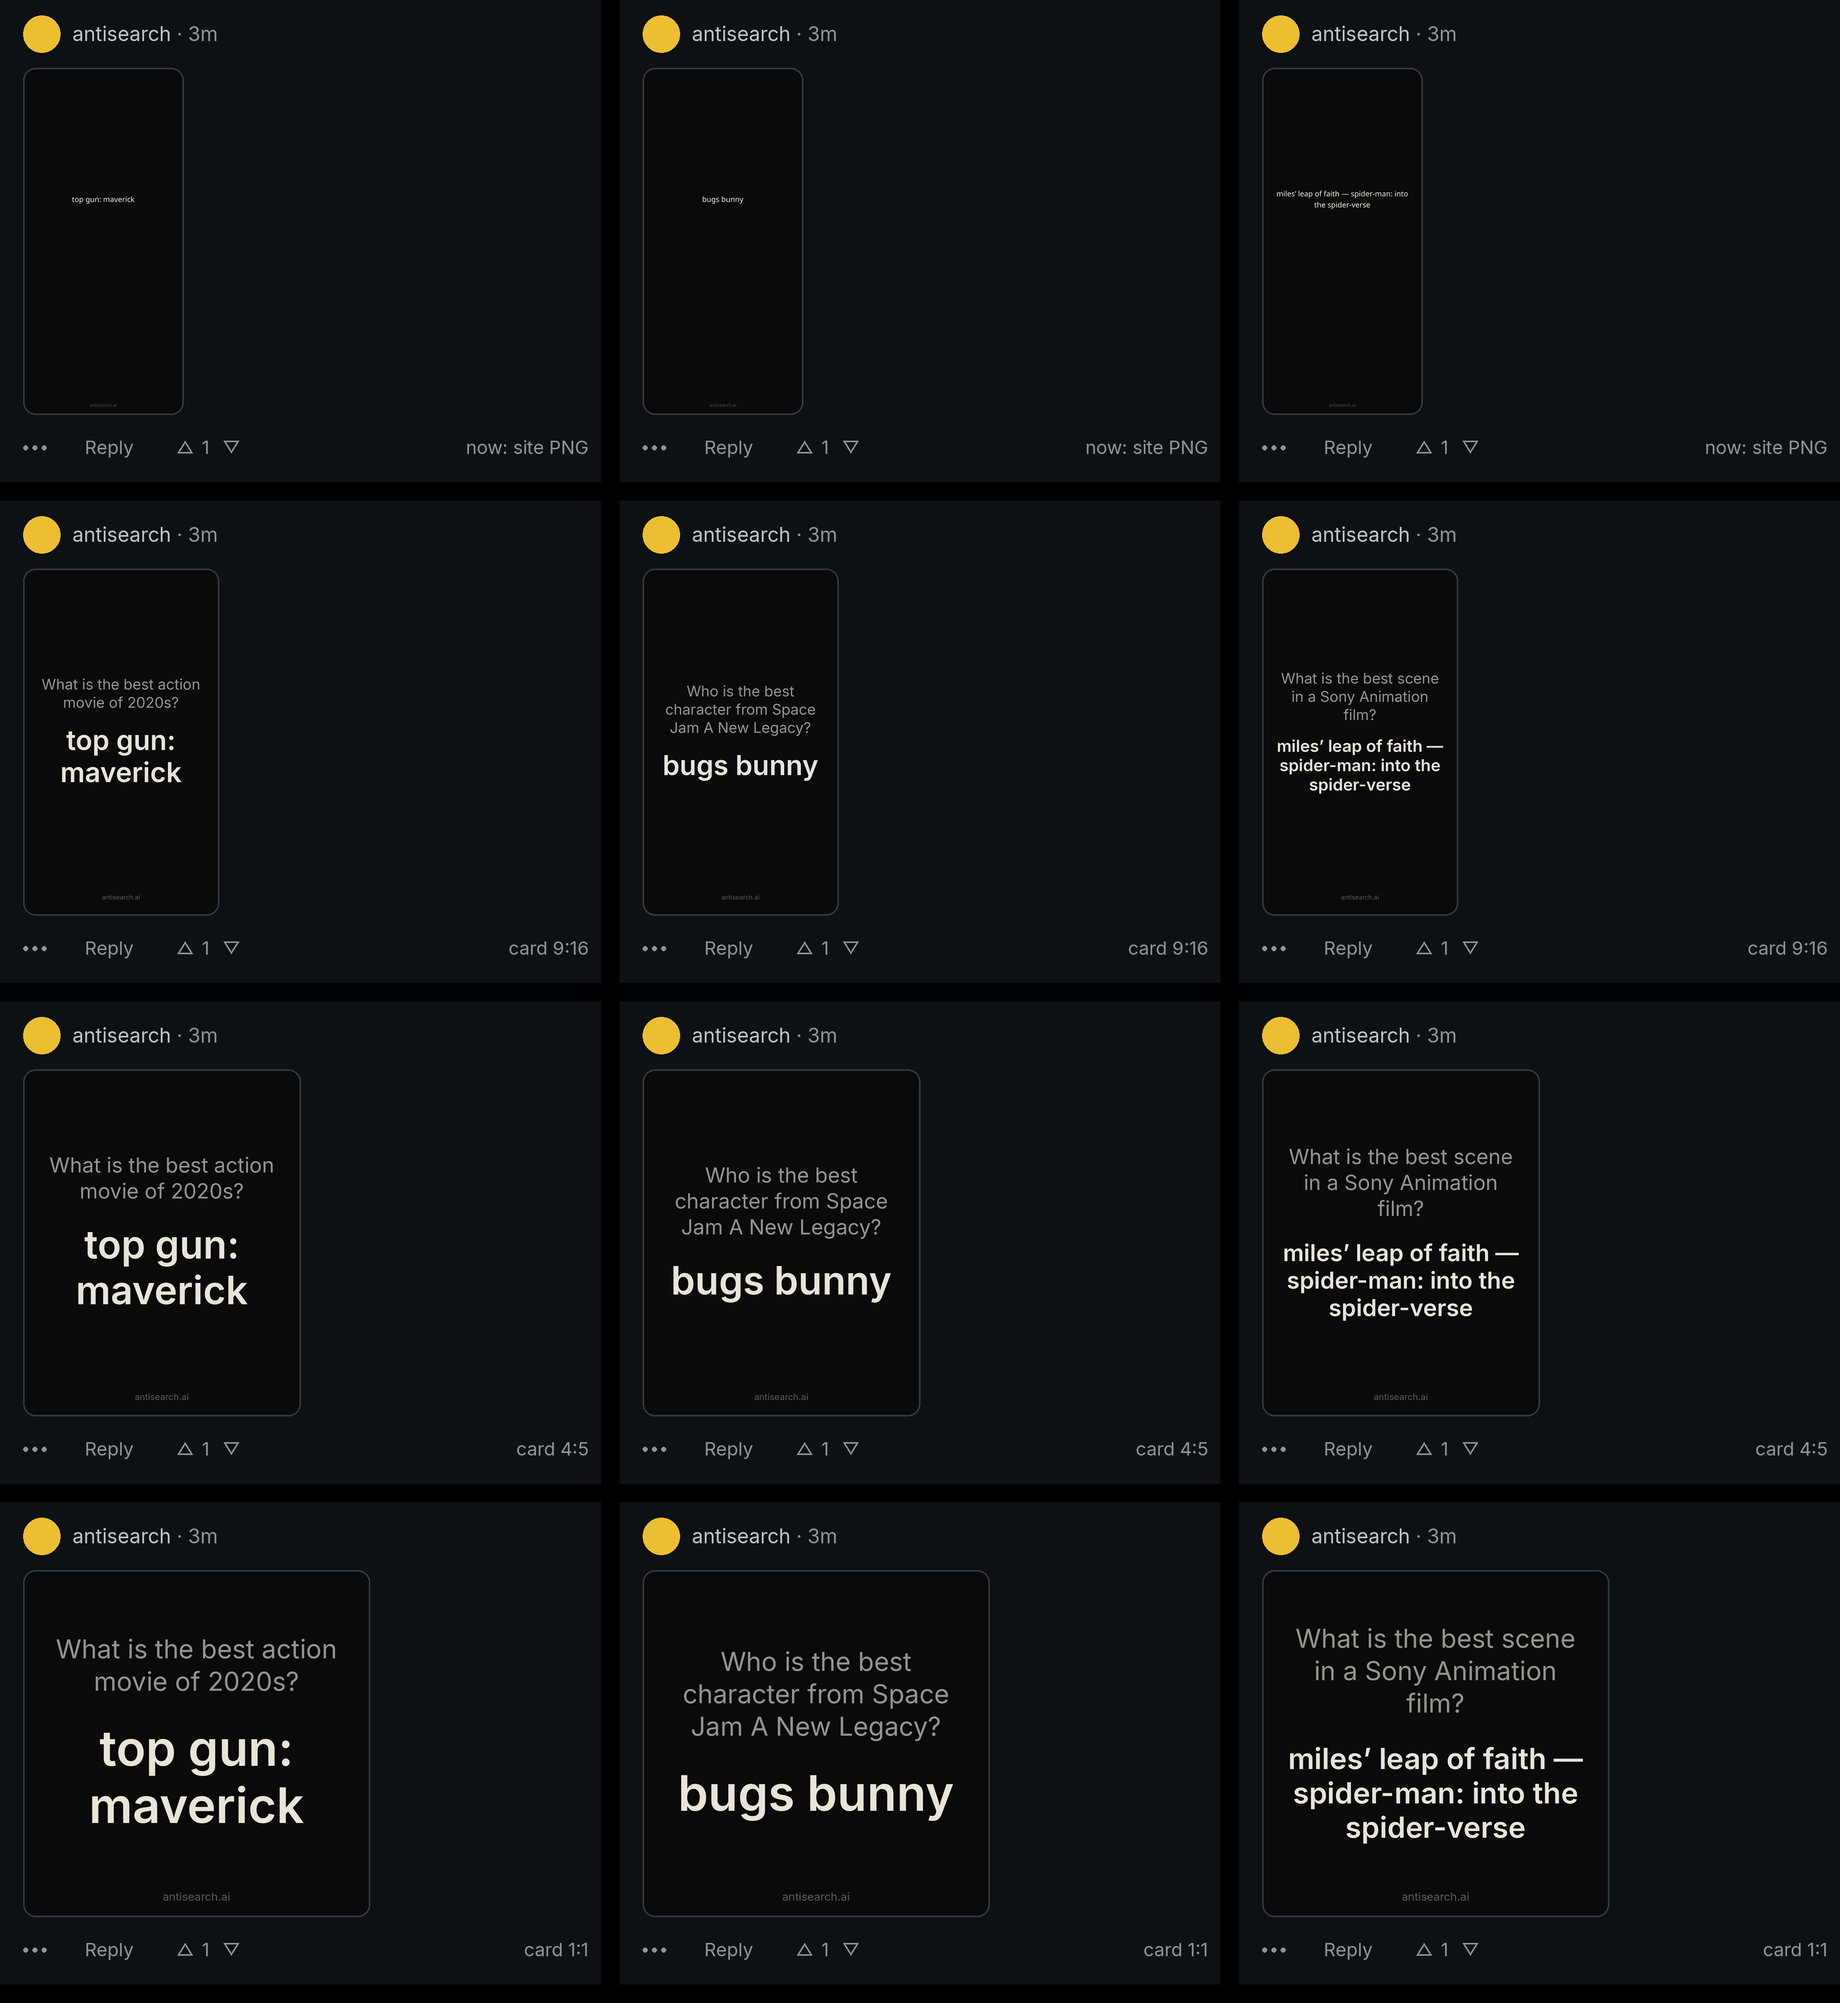
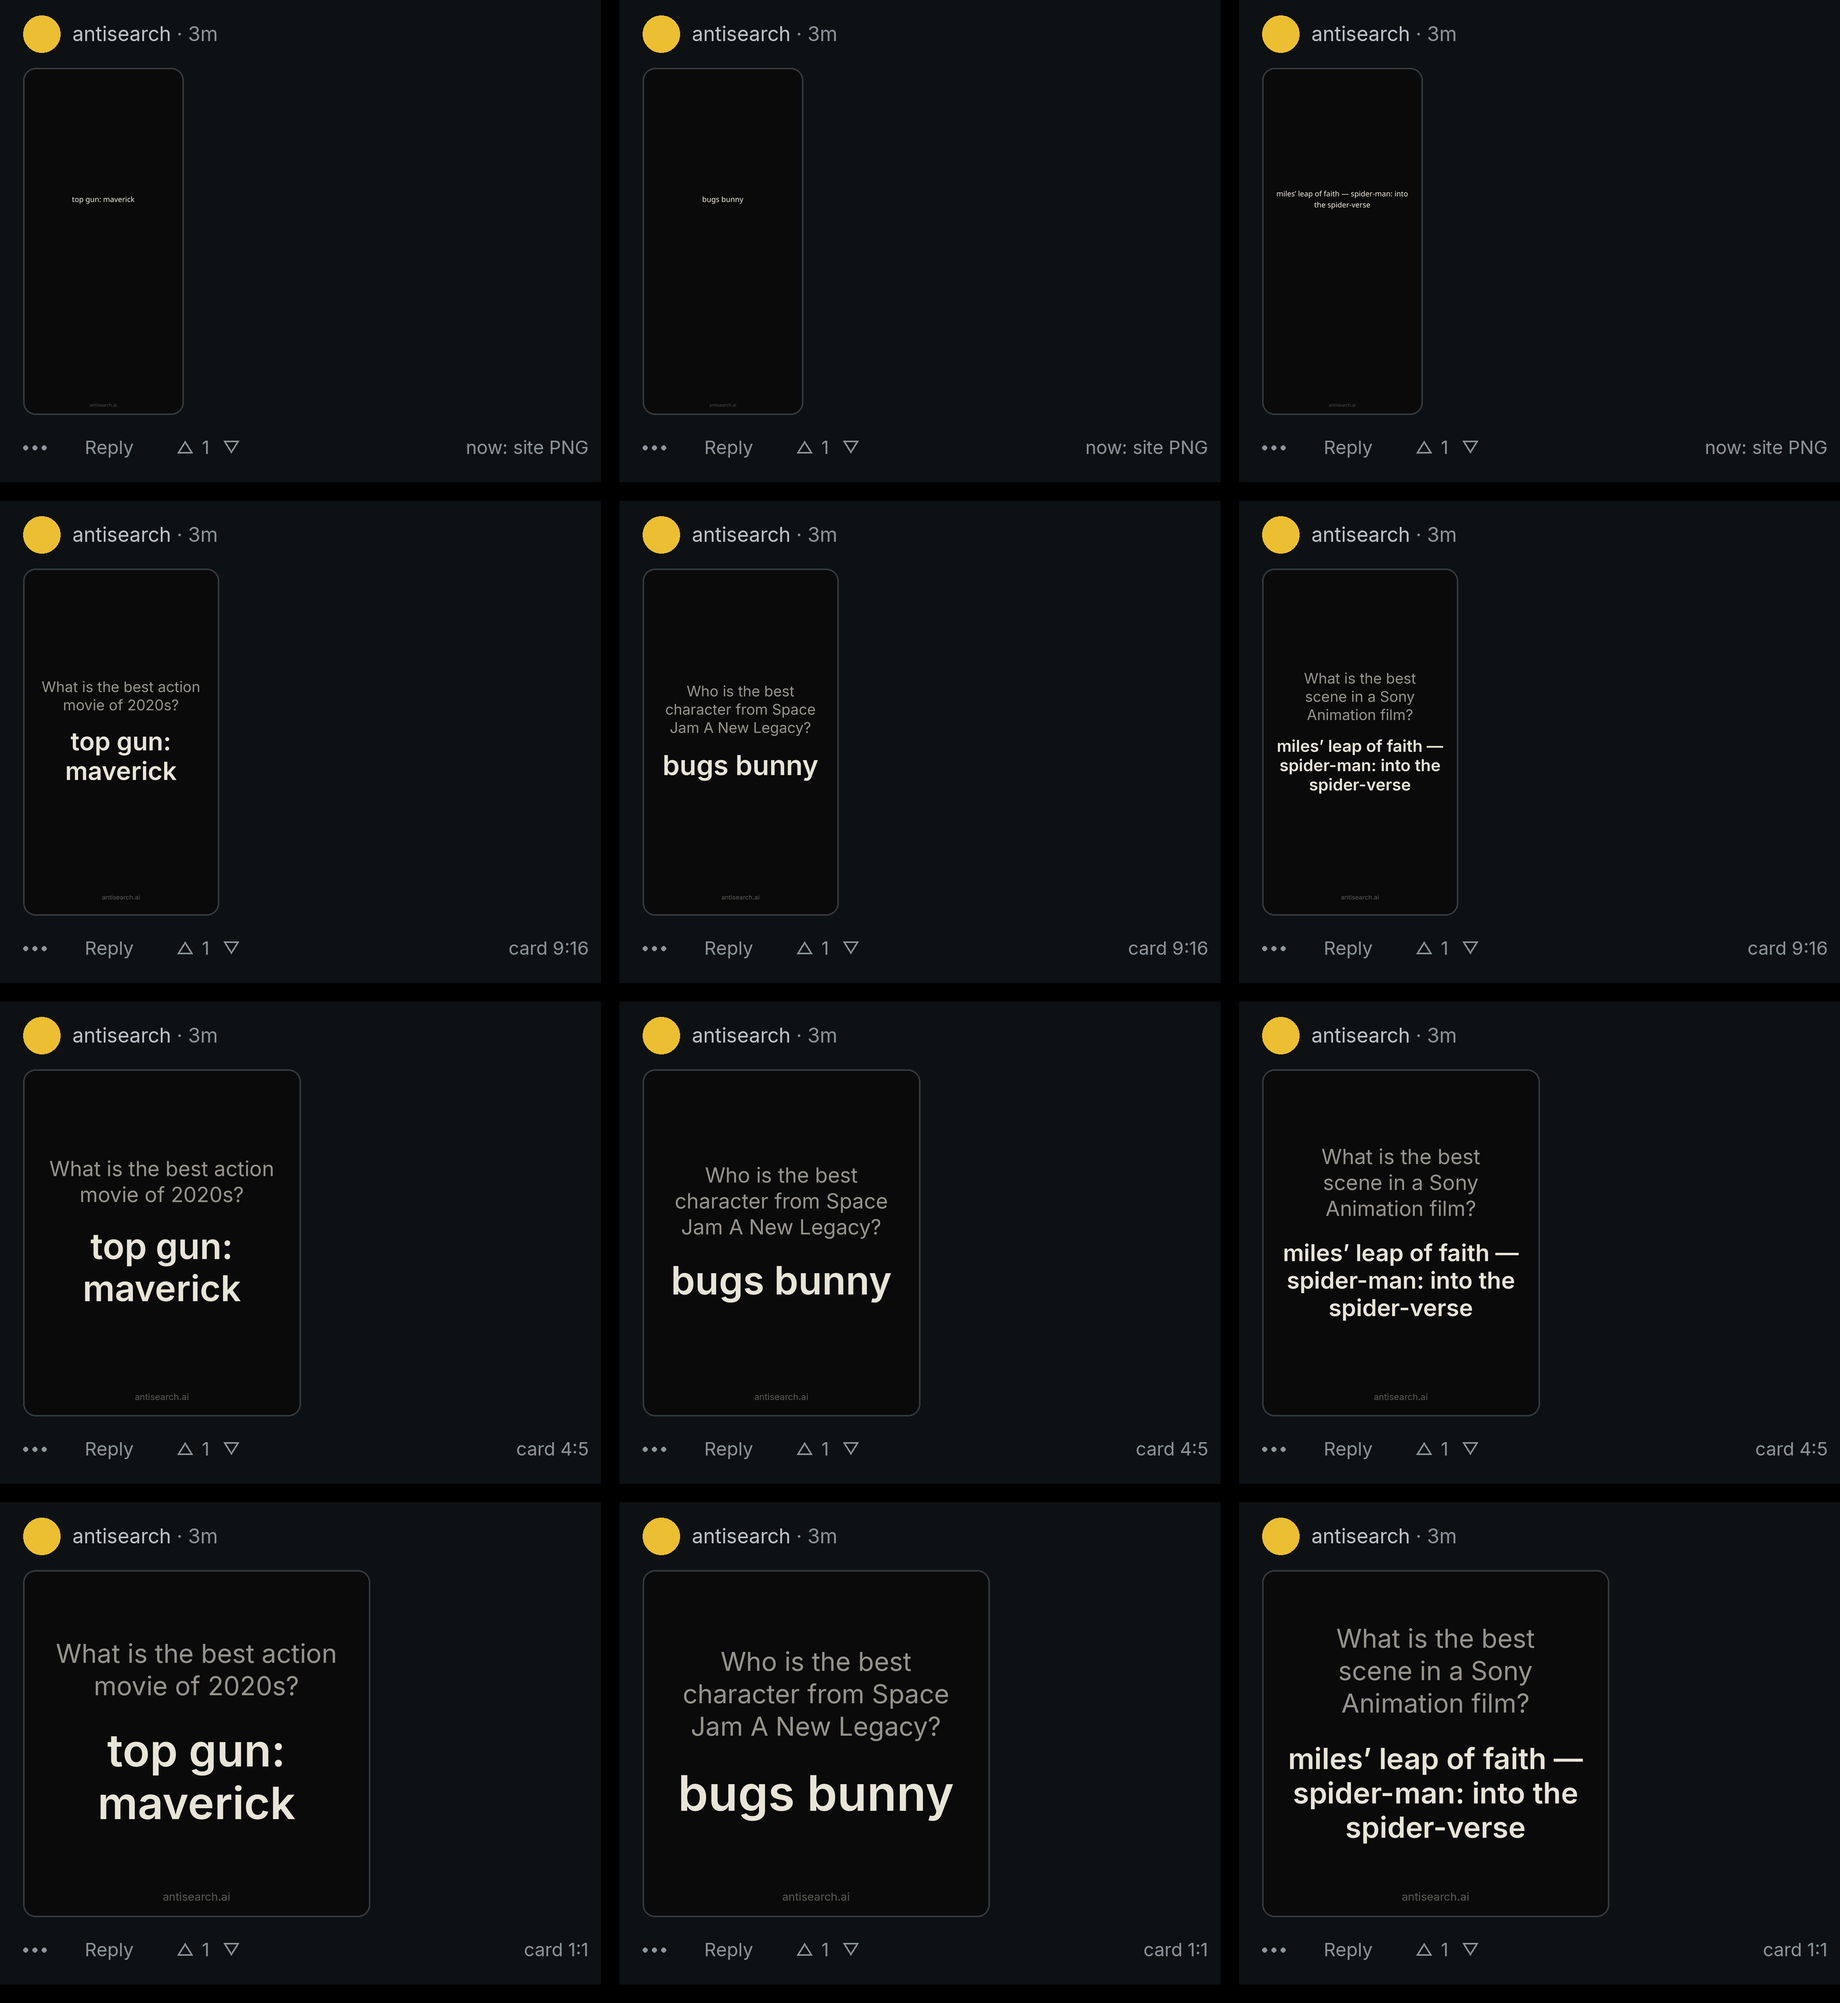
settle card: more lines means smaller type (no stack of single words), balanced breaks unless the phrase breaks at its dash; settle-media --force takes every pack

diff --git a/src/antisearch_mill/settle_card.py b/src/antisearch_mill/settle_card.py
@@ -83,17 +83,36 @@ def _wrap(draw: ImageDraw.ImageDraw, text: str, font, max_w: float) -> list[str]
     return lines
 
 
-def _fit(draw, text: str, path: str, max_w: float, max_lines: int, top: int, floor: int):
-    """The largest size (top down to floor) at which `text` wraps into max_lines within max_w."""
-    size = top
+def _balanced(draw, text: str, font, max_w: float) -> list[str]:
+    """The greedy wrap's line count, with the narrowest width that keeps it (no lone short word)."""
+    lines = _wrap(draw, text, font, max_w)
+    if any(ln.endswith(("—", "–")) for ln in lines[:-1]):
+        return lines  # already breaks at the dash, the phrase's own break
+    lo, hi = 0.0, max_w
+    for _ in range(14):
+        mid = (lo + hi) / 2
+        cand = _wrap(draw, text, font, mid)
+        if len(cand) <= len(lines) and all(draw.textlength(ln, font=font) <= mid for ln in cand):
+            hi = mid
+        else:
+            lo = mid
+    return _wrap(draw, text, font, hi)
+
+
+def _fit(draw, text: str, path: str, max_w: float, tops: tuple[int, ...], floor: int):
+    """The largest size at which `text` wraps within max_w into n lines, n <= len(tops), with the
+    size at most tops[n-1]: more lines must mean smaller type, so a short phrase doesn't
+    become a stack of single words."""
+    size = tops[0]
     while size > floor:
         font = _font(path, size)
         lines = _wrap(draw, text, font, max_w)
-        if len(lines) <= max_lines and all(draw.textlength(ln, font=font) <= max_w for ln in lines):
-            return font, lines
+        n = len(lines)
+        if n <= len(tops) and size <= tops[n - 1] and all(draw.textlength(ln, font=font) <= max_w for ln in lines):
+            return font, _balanced(draw, text, font, max_w)
         size -= 2
     font = _font(path, floor)
-    return font, _wrap(draw, text, font, max_w)
+    return font, _balanced(draw, text, font, max_w)
 
 
 @dataclass
@@ -114,8 +133,9 @@ def layout(question: str, verdict: str, *, font_path: str, card: CardSize) -> La
     W, H = card.width, card.height
     probe = ImageDraw.Draw(Image.new("RGB", (8, 8)))
     max_w = W * 0.86
-    q_font, q_lines = _fit(probe, question, font_path, max_w, 3, round(W * 0.075), round(W * 0.040))
-    v_font, v_lines = _fit(probe, verdict, _heavier(font_path), max_w, 3, round(W * 0.14), round(W * 0.060))
+    q_font, q_lines = _fit(probe, question, font_path, max_w, (round(W * 0.075),) * 3, round(W * 0.040))
+    v_font, v_lines = _fit(probe, verdict, _heavier(font_path), max_w,
+                           (round(W * 0.14), round(W * 0.13), round(W * 0.105)), round(W * 0.060))
     q_lh, v_lh = round(q_font.size * 1.25), round(v_font.size * 1.18)
     gap = round(W * 0.06)
     block = len(q_lines) * q_lh + gap + len(v_lines) * v_lh

diff --git a/src/antisearch_mill/cli.py b/src/antisearch_mill/cli.py
@@ -467,7 +467,12 @@ def cmd_settle_media(args, settings: Settings) -> int:
 
     state_dir = Path(args.state).parent
     store = VerdictStore(state_dir / "verdicts.csv")
-    packs = [Path(args.pack)] if args.pack else settle.packs_missing_media(state_dir / "settle", store)
+    if args.pack:
+        packs = [Path(args.pack)]
+    elif args.force:
+        packs = sorted((state_dir / "settle").glob("candidates-*.md"))
+    else:
+        packs = settle.packs_missing_media(state_dir / "settle", store)
     if args.check:
         print(f"settle-media: {len(packs)} pack(s) need media: {', '.join(p.name for p in packs) or 'none'}")
         return 0 if packs else 3
@@ -785,7 +790,7 @@ def build_parser() -> argparse.ArgumentParser:
     sp.add_argument("--state", default="state/posts.csv", help="publisher-state posts.csv (default: state/posts.csv)")
     sp.add_argument("--pack", default="", help="one pack file (default: every settle/candidates-*.md missing media)")
     sp.add_argument("--check", action="store_true", help="exit 0 if a pack needs media, else 3; renders nothing")
-    sp.add_argument("--force", action="store_true", help="re-render media that already exist (e.g. after a template change)")
+    sp.add_argument("--force", action="store_true", help="re-render every pack's media, even existing files (e.g. after a template change)")
     sp.set_defaults(func=cmd_settle_media)
 
     sp = sub.add_parser("dm-list", help="yesterday's posted verdicts with an official account -> <state>/manual/dm-list-DAY.md")

diff --git a/tests/test_settle_media.py b/tests/test_settle_media.py
@@ -146,6 +146,18 @@ def test_check_mode_needs_no_ffmpeg_and_reports(tmp_path, capsys):
                  "--check"]) == 3
 
 
+def test_force_takes_every_pack_even_when_nothing_is_missing(tmp_path, monkeypatch, capsys):
+    from antisearch_mill.cli import main
+
+    settle_dir, _ = _state(tmp_path)
+    done = []
+    monkeypatch.setattr(settle, "packs_missing_media", lambda *a: [])
+    monkeypatch.setattr(settle, "media_for_pack", lambda pack, store, **k: done.append((pack.name, k["force"])) or [])
+    base = ["--env-file", str(tmp_path / "none"), "settle-media", "--state", str(settle_dir.parent / "posts.csv")]
+    assert main(base) == 0 and done == []
+    assert main([*base, "--force"]) == 0 and done == [("candidates-2026-09-29.md", True)]
+
+
 def test_the_workflow_is_hourly_and_never_asks_the_oracle():
     from conftest import ROOT
 
